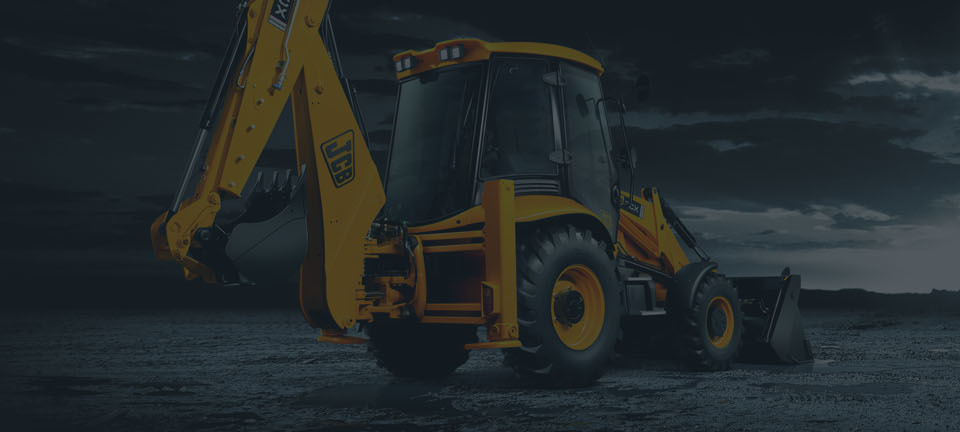
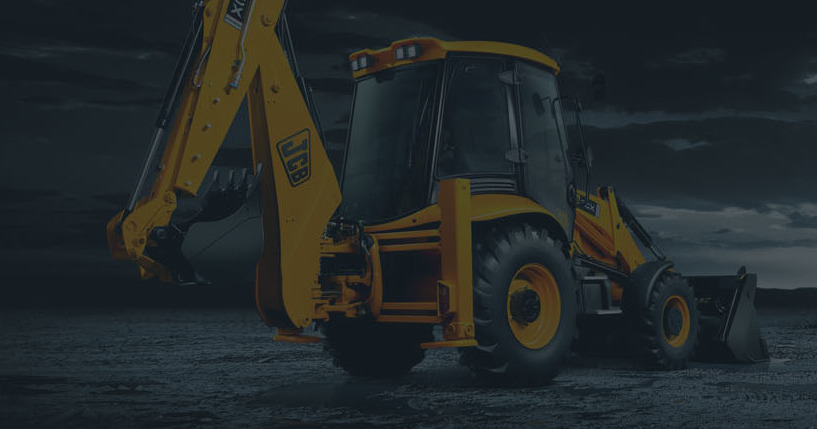
test

diff --git a/index.html b/index.html
@@ -53,9 +53,9 @@
               <a class="dropdown-item ml-auto" href="#">Консультация</a>
             </div>
           </li>
-          <li class="nav-item ml-auto">
+          <!-- <li class="nav-item ml-auto">
             <a class="nav-link disabled" href="#" tabindex="-1" aria-disabled="true">Disabled</a>
-          </li>
+          </li> -->
           <li class="nav-item ml-auto">
             <a class="nav-link" href="#">Контакты</a>
           </li>

diff --git a/css/style.css b/css/style.css
@@ -36,13 +36,13 @@ body {
 		font-size: 2rem;
 	}
 
-	.container-fluid {
+	.intro {
 		padding: 4rem, 0, 0, 0, 4rem !important;
 		margin: 0;
 	}
 
 	.intro img {
-		height: 225px;
+		object-fit: cover;
 		padding: 0;
 		margin: 2rem, 0, 2rem, 0;
 	}
